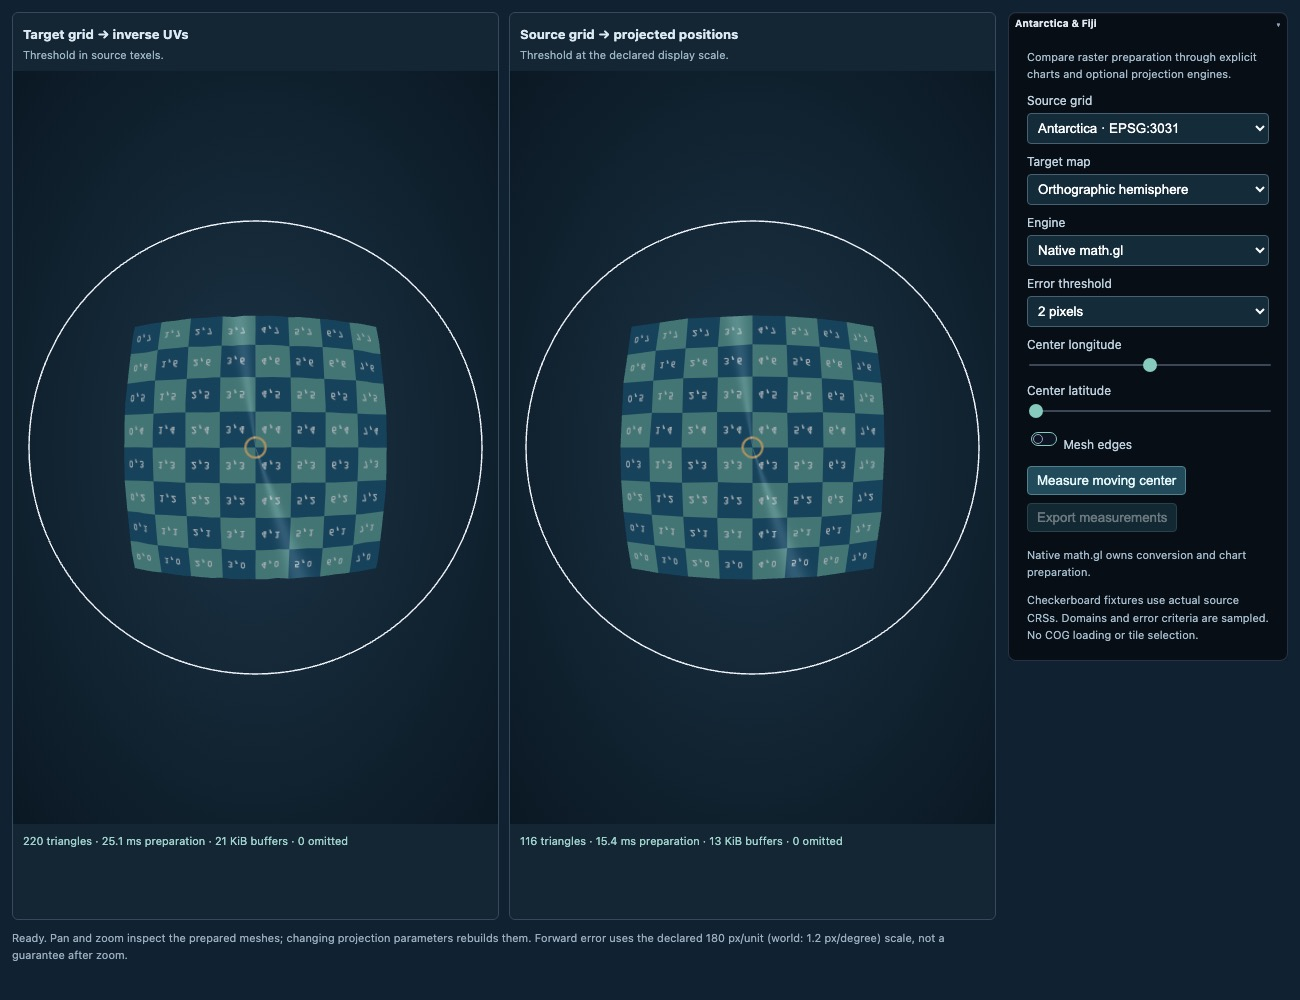
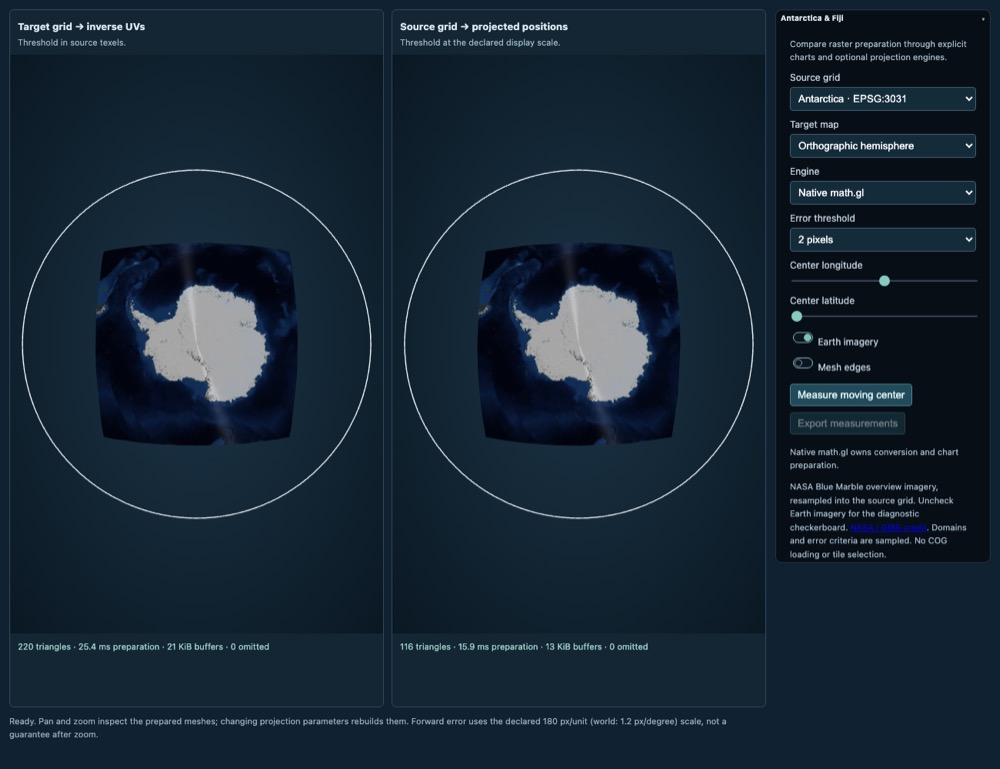
feat(examples): texture raster lab with optional NASA imagery (#370)

diff --git a/examples/geospatial/projection-domains/lab/style.css b/examples/geospatial/projection-domains/lab/style.css
@@ -20,3 +20,5 @@
 .raster-projection-lab .lab-status{position:absolute;bottom:0;left:12px;right:304px;margin:0;padding:10px 0;min-height:60px;font-size:11px;line-height:1.5;color:#99afbf}
 .raster-projection-lab pre{white-space:pre-wrap;font-size:10px;max-height:160px;overflow:auto;background:#081923;padding:8px;border-radius:4px}
 @media(max-width:800px){.raster-projection-lab .maps{grid-template-columns:1fr;right:292px}.raster-projection-lab .lab-info{width:260px}.raster-projection-lab .maps p{display:none}}
+
+.raster-projection-lab .lab-info a{color:#9fd4ee}

diff --git a/examples/geospatial/projection-domains/README.md b/examples/geospatial/projection-domains/README.md
@@ -72,3 +72,13 @@ measurements. The browser's moving-center button additionally includes worker tr
 its measurements. Neither is a throughput or frame-rate promise. Changing projection parameters
 rebuilds domains and meshes; camera zoom only inspects existing geometry and does not requalify the
 forward display-space error bound.
+
+### Lab imagery
+
+Earth imagery is on by default; the shared infobox toggles the diagnostic checkerboard without
+rebuilding meshes. The lab reuses the bundled [NASA Blue Marble overview](../../earth/sun-terminator/assets/README.md)
+and resamples its north-up geographic pixels into each fixture's 256 × 256 source grid, using the
+actual ellipsoidal polar CRS and rotated Fiji transform. Bilinear sampling wraps longitude and clamps
+at the poles. Both texture modes share the same UVs and source-pixel error policy. This is overview
+imagery, not live imagery, a higher-resolution tile service or a COG demonstration. NASA Earth
+Observatory and NASA GIBS/ESDIS supply the imagery; no additional remote requests are needed.
